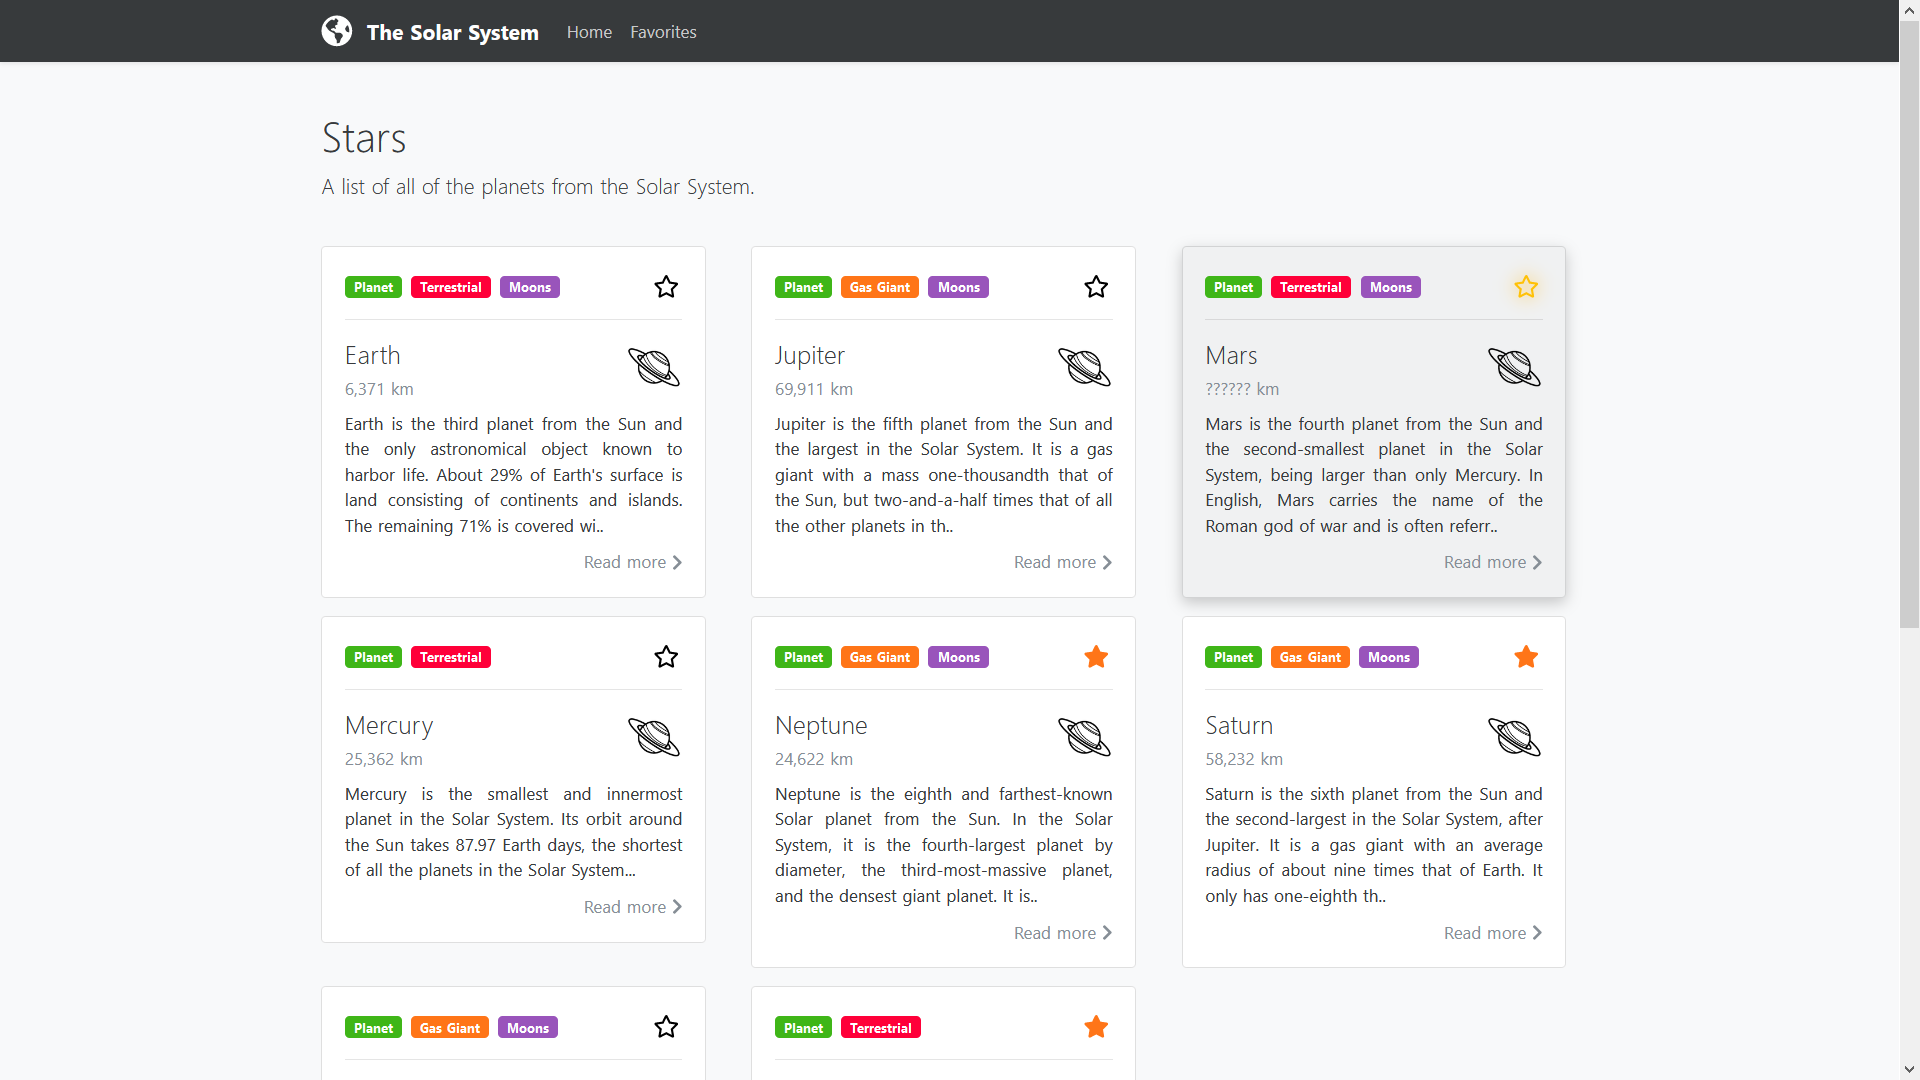
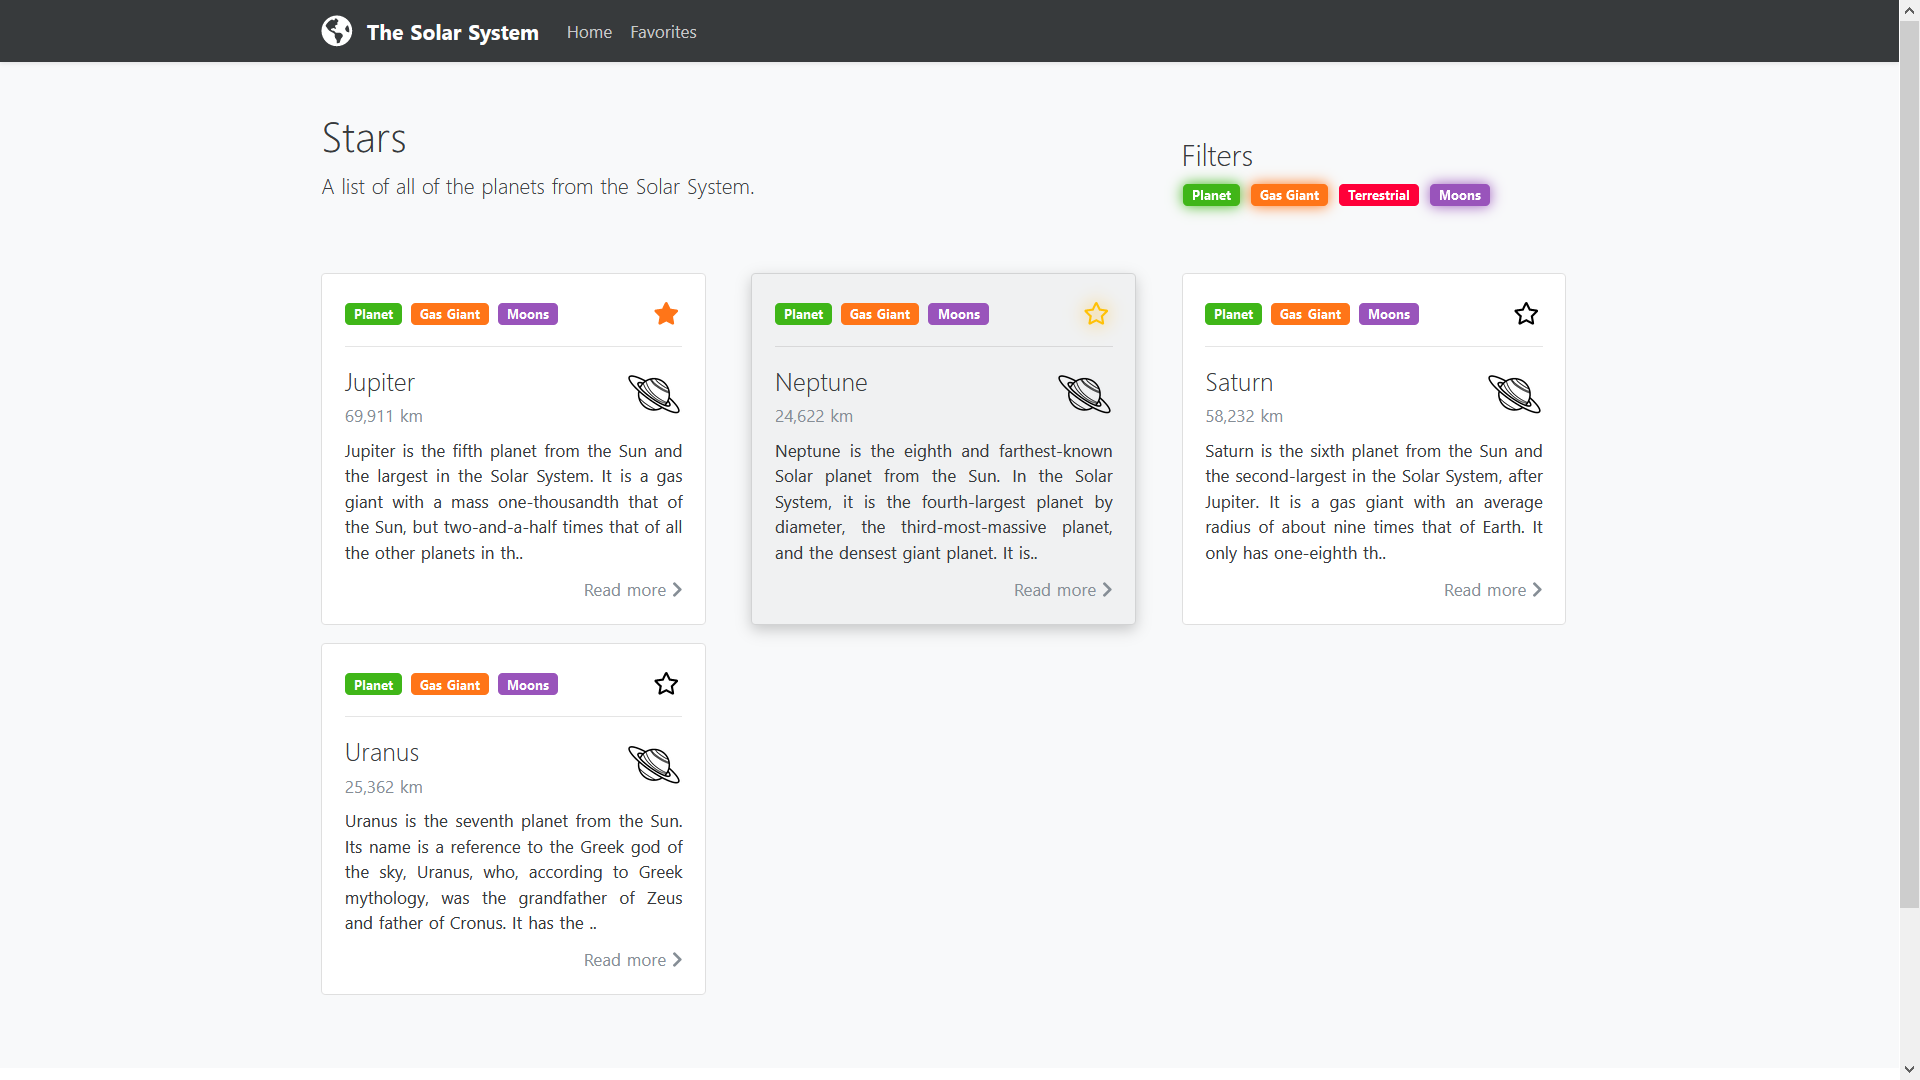
Added Filters

diff --git a/pages/stars.vue b/pages/stars.vue
@@ -1,9 +1,43 @@
 <template>
   <main>
     <div class="container pt-4">
-      <h1>{{ this.title }}</h1>
-      <p class="lead">{{ this.description }}</p>
-      <StarList />
+      <div class="row">
+        <div class="col-lg-8">
+          <h1>{{ this.title }}</h1>
+          <p class="lead">{{ this.description }}</p>
+        </div>
+        <div class="col-lg-4">
+          <div class="d-lg-none d-xl-block pt-4"></div>
+          <h3>Filters</h3>
+          <div class="d-inline-flex">
+            <button class="btn btn-link btn-xs p-0" @click="togglePlanet">
+              <span class="badge badge-toggle badge-success mr-2 py-1 px-2 rounded"
+                :style="planetFilter ? 'filter: drop-shadow(0 0 6px #3fb618)' : null">
+                Planet
+              </span>
+            </button>
+            <button class="btn btn-link btn-xs p-0" @click="toggleGasGiant">
+              <span class="badge badge-toggle badge-warning mr-2 py-1 px-2 rounded"
+                :style="gasGiantFilter ? 'filter: drop-shadow(0 0 6px #ff7518)' : null">
+                Gas Giant
+              </span>
+            </button>
+            <button class="btn btn-link btn-xs p-0" @click="toggleTerrestrial">
+              <span class="badge badge-toggle badge-danger mr-2 py-1 px-2 rounded"
+                :style="terrestrialFilter ? 'filter: drop-shadow(0 0 6px #ff0039)' : null">
+                Terrestrial
+              </span>
+            </button>
+            <button class="btn btn-link btn-xs p-0" @click="toggleMoons">
+              <span class="badge badge-toggle badge-info mr-2 py-1 px-2 rounded"
+                :style="moonsFilter ? 'filter: drop-shadow(0 0 6px #9954bb)' : null">
+                Moons
+              </span>
+            </button>
+          </div>
+        </div>
+      </div>
+      <StarList :filteredStars="filteredStars" />
     </div>
   </main>
 </template>
@@ -13,8 +47,64 @@ export default {
   data() {
     return {
       title: 'Stars',
-      description : 'A list of all of the planets from the Solar System.'
+      description: 'A list of all of the planets from the Solar System.',
+      stars: this.$store.state.stars,
+      planetFilter: true,
+      gasGiantFilter: true,
+      terrestrialFilter: true,
+      moonsFilter: true
+    }
+  },
+  methods: {
+    togglePlanet() {
+      this.planetFilter = !this.planetFilter;
+    },
+    toggleGasGiant() {
+      this.gasGiantFilter = !this.gasGiantFilter;
+    },
+    toggleTerrestrial() {
+      this.terrestrialFilter = !this.terrestrialFilter;
+    },
+    toggleMoons() {
+      this.moonsFilter = !this.moonsFilter;
+    }
+  },
+  computed: {
+    filteredStars() {
+      // All filters are activated
+      let filteredStars = [];
+      if (this.planetFilter && this.gasGiantFilter && this.terrestrialFilter && this.moonsFilter) {
+        filteredStars = this.stars;
+      }
+      else {
+        if (this.gasGiantFilter) {
+          // Jupiter, Neptune, Saturn, Uranus
+          filteredStars.push(this.stars[1], this.stars[4], this.stars[5], this.stars[6]);
+        }
+        if (this.terrestrialFilter) {
+          // Earth, Mars, Mercury, Venus
+          filteredStars.push(this.stars[0], this.stars[2], this.stars[3], this.stars[7]);
+        }
+        if (this.MoonsFilter) {
+          // Earth, Jupiter, Mars, Neptune, Saturn, Uranus
+          filteredStars.push(this.stars[0], this.stars[1], this.stars[2], this.stars[4], this.stars[5], this.stars[6]);
+        }
+      }
+      return filteredStars;
     }
   }
 }
 </script>
+
+<style scoped>
+.btn.btn-link {
+  outline: none;
+  box-shadow: none;
+}
+.badge {
+  transition: 0.2s;
+}
+.badge-toggle:hover {
+  transform: scale(1.2);
+}
+</style>

diff --git a/store/index.js b/store/index.js
@@ -1,6 +1,7 @@
 export const state = () => ({
     star: {},
     stars: [],
+    bodies: [],
     favorites: [],
 })
 
@@ -9,9 +10,13 @@ export const mutations = {
     setStar(state, star) {
         state.star = star;
     },
-    // Set all of the stars into the store
+    // Set all of the stars into the store (API 1)
     setStars(state, stars) {
         state.stars = stars;
+    },
+    // Set all of the bodies into the store (API 2)
+    setBodies(state, bodies) {
+        state.bodies = bodies;
     },
     // Add a given star to the favorites
     addToFavorites(state, star) {
@@ -19,7 +24,7 @@ export const mutations = {
     },
     // Remove a given star from the favorites
     removeFromFavorites(state, star) {
-        var index = state.favorites.indexOf(star);
+        let index = state.favorites.indexOf(star);
         if (index > -1) {
             state.favorites.splice(index, 1);
         }
@@ -28,6 +33,7 @@ export const mutations = {
     emptyStore(state) {
         state.star = {};
         state.stars = [];
+        state.bodies = [];
         state.favorites = [];
     }
 }

diff --git a/layouts/default.vue b/layouts/default.vue
@@ -9,11 +9,29 @@
 
 <script>
 export default {
-  // Fetch data from API
+  data() {
+    return {
+      APIs: ['https://api.nuxtjs.dev/planets', 'https://api.le-systeme-solaire.net/rest/bodies'],
+      actions: ['setStars', 'setBodies']
+    }
+  },
+  // Fetch data from APIs
   async fetch() {
+    /*
+    if (!this.$store.state.stars.length && !this.$store.state.bodies.length) {
+      APIs.forEach(async (API, index) => {
+        let data = await fetch(API).then((res) => res.json());
+        this.$store.commit(actions[index], data);
+      })
+    }
+    */
     if (!this.$store.state.stars.length) {
-      var data = await fetch('https://api.nuxtjs.dev/planets').then((res) => res.json());
-      this.$store.commit('setStars', data);
+      let data = await fetch(this.APIs[0]).then((res) => res.json());
+      this.$store.commit(this.actions[0], data);
+    }
+    if (!this.$store.state.bodies.length) {
+      let data = await fetch(this.APIs[1]).then((res) => res.json());
+      this.$store.commit(this.actions[1], data);
     }
   }
 }

diff --git a/components/Debug.vue b/components/Debug.vue
@@ -4,11 +4,11 @@
     <h4>Debug Mode is enabled</h4>
     <br />
     <button class="btn btn-warning mr-3" data-toggle="collapse" data-target="#storeContent" aria-expanded="false" aria-controls="storeContent">
-      <font-awesome-icon :icon="{ prefix: 'fas', iconName: 'search' }" />
+      <fa :icon="{ prefix: 'fas', iconName: 'search' }" />
       &nbsp;Check Store State
     </button>
     <button class="btn btn-danger" @click="emptyStore">
-      <font-awesome-icon :icon="{ prefix: 'fas', iconName: 'trash' }" />
+      <fa :icon="{ prefix: 'fas', iconName: 'trash' }" />
       &nbsp;Empty Store
     </button>
     <div class="collapse pt-5" id="storeContent">

diff --git a/layouts/error.vue b/layouts/error.vue
@@ -5,11 +5,11 @@
     <span class="pb-5">{{ error.message }}</span>
     <div class="row">
       <button type="button" class="btn btn-primary mr-3" onclick="window.location.reload();">
-        <font-awesome-icon :icon="{ prefix: 'fas', iconName: 'redo' }" />
+        <fa :icon="{ prefix: 'fas', iconName: 'redo' }" />
         &nbsp;Retry
       </button>
       <button type="button" class="btn btn-secondary" onclick="window.history.back();">
-        <font-awesome-icon :icon="{ prefix: 'fas', iconName: 'arrow-left' }" />
+        <fa :icon="{ prefix: 'fas', iconName: 'arrow-left' }" />
         &nbsp;Go Back
       </button>
     </div>

diff --git a/components/StarList.vue b/components/StarList.vue
@@ -1,8 +1,8 @@
 <template>
-  <div class="star-list pt-4">
-    <div v-if="stars.length" class="row">
+  <div class="star-list pt-5">
+    <div v-if="filteredStars.length" class="row">
       <StarItem
-        v-for="(star, index) in stars"
+        v-for="(star, index) in filteredStars"
         :star="star"
         :index="index"
         :key="index" />
@@ -15,10 +15,7 @@
 
 <script>
 export default {
-  computed: {
-    stars() {
-      return this.$store.state.stars;
-    }
-  }
+  name: 'StarList',
+  props: ['filteredStars']
 }
 </script>

diff --git a/pages/favorites.vue b/pages/favorites.vue
@@ -5,6 +5,7 @@
       <p class="lead">{{ this.description }}</p>
       <FavoriteList />
     </div>
+    <BackButton />
   </main>
 </template>
 
@@ -13,7 +14,7 @@ export default {
   data() {
     return {
       title: 'Favorites',
-      description : 'All of your favorite planets are listed here.'
+      description: 'All of your favorite planets are listed here.'
     }
   }
 }

diff --git a/components/FavoriteList.vue b/components/FavoriteList.vue
@@ -1,5 +1,5 @@
 <template>
-  <div class="favorite-list pt-4">
+  <div class="favorite-list pt-5">
     <div v-if="favorites.length" class="row">
       <StarItem
         v-for="(star, index) in favorites"
@@ -15,6 +15,7 @@
 
 <script>
 export default {
+  name: 'FavoriteList',
   computed: {
     favorites() {
       return this.$store.state.favorites;

diff --git a/components/BackButton.vue b/components/BackButton.vue
@@ -1,0 +1,10 @@
+<template>
+  <div class="container pt-5">
+    <div class="d-flex justify-content-end">
+      <button class="btn btn-primary float-right" onclick="window.history.back();">
+        Go Back&nbsp;
+        <fa :icon="{ prefix: 'fas', iconName: 'arrow-right' }" />
+      </button>
+    </div>
+  </div>
+</template>

diff --git a/components/StarItem.vue b/components/StarItem.vue
@@ -126,13 +126,15 @@ export default {
 .btn {
   z-index: 2;
   position: relative;
-  outline: none;
-  box-shadow: none;
   color: black;
 }
 .btn:hover {
   color: #ffc107 !important;
   transition: 0.2s;
+}
+.btn.btn-link {
+  outline: none;
+  box-shadow: none;
 }
 .fav-icon:hover,
 .fav-icon:active {

diff --git a/pages/_star.vue b/pages/_star.vue
@@ -23,6 +23,7 @@
         <p class="lead"><u>Moons:</u> {{ starMoons }}</p>
       </div>
     </div>
+    <BackButton />
   </main>
 </template>
 

diff --git a/pages/index.vue b/pages/index.vue
@@ -28,6 +28,7 @@
 <script>
 export default {
   layout: 'index',
+  middleware: 'redirect'
 }
 </script>
 
